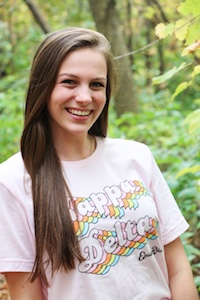
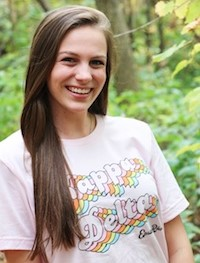
Lightening background

diff --git a/css/styles.css b/css/styles.css
@@ -4,7 +4,7 @@ body {
 	width: 90%;
 	max-width: 960px;
 	font-family: 'Slabo 27px', serif;
-	background-color: #EFF1FF;
+	background-color: #F4F5FF;
 	color: #2C2C34;
 }
 
